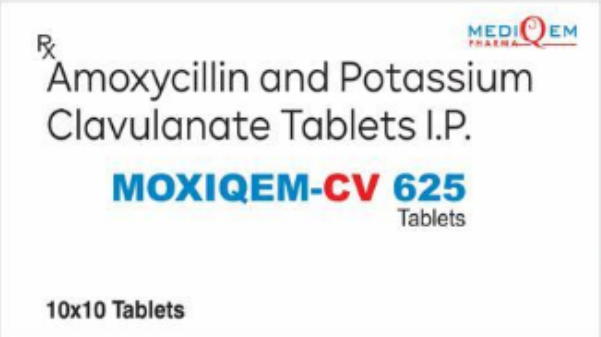
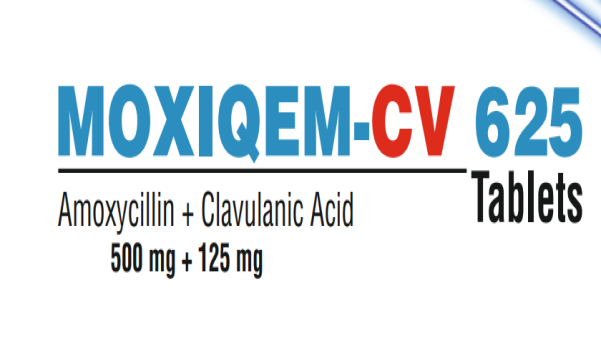
final steps

diff --git a/src/Components/Productpages/Productpage1.jsx b/src/Components/Productpages/Productpage1.jsx
@@ -9,14 +9,19 @@ import Weight from "../../assets/weight.jpg";
 import Compact from "../../assets/compact.png";
 import eject from "../../assets/eject.png";
 import Pform from "./Productform";
+import Moxi from "../../assets/MOXIQEM.png";
+import Moxi3 from "../../assets/moxiqem2.png";
+import Moxicv1 from "../../assets/Moxicv1.png";
+import Moxicv2 from "../../assets/moxicv2.png";
+import Moxidds1 from "../../assets/moxidds1.png";
+import Moxidds2 from "../../assets/moxidds3.png";
 const products = [
   {
     id: 1,
     name: "MOXIQEM-CV 625",
     images: [
-      "https://via.placeholder.com/400x300?text=MOXIQEM+Image+1",
-      "https://via.placeholder.com/400x300?text=MOXIQEM+Image+2",
-      "https://via.placeholder.com/400x300?text=MOXIQEM+Image+3",
+      Moxi,
+      Moxi3,
     ],
     composition: [
       "Each film-coated tablet contains:",
@@ -42,8 +47,8 @@ const products = [
     id: 2,
     name: "MOXIQEM-CV",
     images: [
-      "https://via.placeholder.com/400x300?text=MOXIQEM+CV+Image+1",
-      "https://via.placeholder.com/400x300?text=MOXIQEM+CV+Image+2",
+      Moxicv1,
+      Moxicv2,
     ],
     composition: [
       "Each 5 ml of the reconstituted suspension contains:",
@@ -76,8 +81,8 @@ const products = [
     id: 3,
     name: "MOXIQEM-CV DDS",
     images: [
-      "https://via.placeholder.com/400x300?text=MOXIQEM+CV+DDS+Image+1",
-      "https://via.placeholder.com/400x300?text=MOXIQEM+CV+DDS+Image+2",
+      Moxidds1,
+      Moxidds2,
     ],
     composition: [
       "Each 5 ml of the reconstituted suspension contains:",

diff --git a/src/Components/Productpages/Productpage1.css b/src/Components/Productpages/Productpage1.css
@@ -116,11 +116,15 @@ body {
   cursor: pointer;
 }
 
-.slider-image {
-  max-width: 80%;
-  height: auto;
-  border-radius: 8px;
-}
+
+  .slider-image {
+    width: 100%; /* Ensure it takes up the container's width */
+    max-width: 550px; /* Set a maximum width for consistency */
+    height: 300px; /* Set a fixed height for uniformity */
+    object-fit: cover; /* Maintain aspect ratio and crop if necessary */
+    border-radius: 10px; /* Optional: Keep the border-radius for aesthetic consistency */
+  }
+  
 
 .modal-product-name {
   font-size: 2rem;  /* Increased size for product name */
